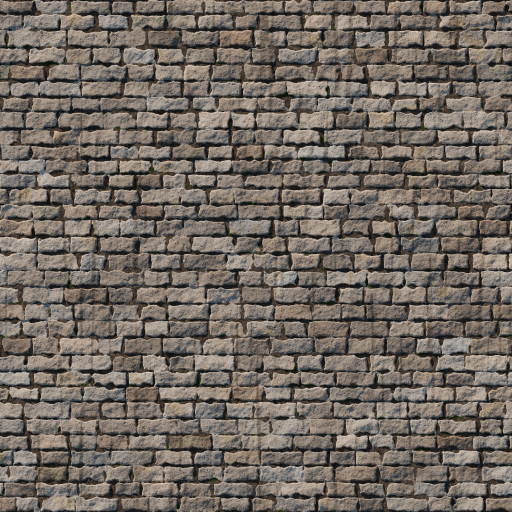
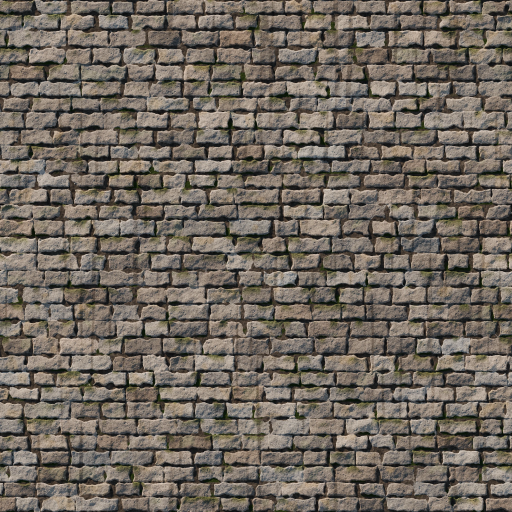
Версия 2026.10.15-54: мох на замковой кладке

diff --git a/index.html b/index.html
@@ -114,7 +114,7 @@
         </div>
       </div>
     </div>
-    <footer class="menu-footer"><span id="game-version">ВЕРСИЯ 2026.10.15-53</span><span>ПЛАНИРУЙ ХОД. МЕНЯЙ ЛАНДШАФТ.</span><span class="footer-status"><i></i> ГОТОВ К БОЮ</span></footer>
+    <footer class="menu-footer"><span id="game-version">ВЕРСИЯ 2026.10.15-54</span><span>ПЛАНИРУЙ ХОД. МЕНЯЙ ЛАНДШАФТ.</span><span class="footer-status"><i></i> ГОТОВ К БОЮ</span></footer>
   </section>
 
   <!-- Онлайн -->

diff --git a/dev/blender/make_masonry.py b/dev/blender/make_masonry.py
@@ -38,7 +38,7 @@ STYLES = {
     # замки на закате: тёплый песчаник-известняк, камни мельче, швы тоньше
     'castle': dict(name='stone_castle', seed=23, T=512, hr=(14, 18), wr=(24, 46), joint=2.0, bev=1.2, recess=1.4, tilt=0.6,
                    stone=[(178, 170, 158), (164, 156, 145), (190, 182, 168), (152, 144, 134), (172, 166, 156)],
-                   mortar=(104, 96, 86), lichen=0.12, moss=0.1, light=dict(col=(1.0, 0.78, 0.58), elev=18, energy=5.2)),   # r23: насыщенность −35 %
+                   mortar=(104, 96, 86), lichen=0.24, moss=0.3, light=dict(col=(1.0, 0.78, 0.58), elev=18, energy=5.2)),   # r23: насыщенность −35 %
     # каньон: тёплый песчаник, мелкие блоки, швы с песком, без лишайника и мха
     'sand': dict(name='stone_sand', seed=31, T=512, hr=(11, 14), wr=(19, 36), joint=2.0, bev=1.6, recess=1.4,
                  stone=[(222, 176, 120), (206, 160, 106), (232, 192, 138), (196, 150, 98), (214, 170, 118)],
@@ -145,6 +145,11 @@ def field(st):
         mc = np.array(st['mortar'], np.float32) * (0.88 + 0.12 * mortn[rows])[..., None]
         mk = np.clip((mossn[rows] - (1.6 - st['moss'] * 4)) * 1.5, 0, 1) * (Y > bh * 0.5) * (st['moss'] > 0)   # мох в нижних швах
         mc = mc * (1 - mk[..., None]) + np.array([60, 80, 38], np.float32) * mk[..., None]
+        # мох пятнами на верхних гранях камней (как на мосту эталона): там, где шум мха высок, ближе к верху ряда
+        if st['moss'] > 0:
+            mk2 = np.clip((mossn[rows] - (1.5 - st['moss'] * 3)) * 1.6, 0, 1) * np.clip(1 - Y / (bh * 0.55), 0, 1)
+            mcol = np.array([74, 94, 42], np.float32) * (0.85 + 0.15 * np.clip(lich2[rows], -1, 1))[..., None]
+            base = base * (1 - mk2[..., None] * 0.75) + mcol * mk2[..., None] * 0.75
         Cr = np.where(stone[..., None], base, mc); Hr = H[rows]
         if SN:
             # зерно гранита: мелкая «соль с перцем» ±9 %, светлые кристаллы полевого шпата и тёмные — слюды

diff --git a/CLAUDE.md b/CLAUDE.md
@@ -7,7 +7,7 @@ D:\Територивар1 и пользовательский Territory-War100 
 Не выполнять старые указания reset/clean/push/автоматического обновления (локальные коммиты можно).
 Запускать «Играть.cmd» или «Играть онлайн.cmd» из D:\Територивар.
 Полная переписка: dev/imported-chat/claude-code. Текущие цели: dev/NEXT_STEPS.md.
-Актуальная версия 2026.10.15-53, передача: dev/HANDOFF-2026-10-04.md и разделы «Версия 33–45» в dev/NEXT_STEPS.md.
+Актуальная версия 2026.10.15-54, передача: dev/HANDOFF-2026-10-04.md и разделы «Версия 33–45» в dev/NEXT_STEPS.md.
 Версия 45 (14.10): кадр наведения соперника — Camera.shotFrame идёт за дальней точкой (точка у края кадра с отступом); удары, попадания и снаряды центруются и у края карты (clampTo, reach). Ядерка — game.nuke (rd 430, pierce 0.5, урон 280). Звуки Sonniss GDC 2026 скачаны в D:\Sonniss-GDC2026\zips (лицензия без авторства; не выкладывать сами файлы). Версия 46: звук Sonniss (amb_*, boom5–9, nukeboom, ice0–1; dev/tools/sonniss_make.py; AMB_REC в audio.js), мотор ракеты ROCKET_MOTOR (entities.js, и в simulateShot), обломки PART_REST (particles.js), цветы flower1–4 и листья leaf1–4 (make_decor.py; цветы — в слое растений terrain_visual.js). Версия 48: оружие и взрывы из прошлых наборов Sonniss (выборочно по HTTP Range — scratchpad zip_fetch.py, копия D:\Sonniss-GDC2026\zip_fetch.py; записи в D:\Sonniss-GDC2026\guns; нарезка dev/tools/guns_make.py). Версия 49: makeup-усиление в audio.js init (2.5), лазер — ошибка по ветру (entities.js orbital), pickFrame — кадр по середине «самолёт…земля» (zFit), clampTo — свободный обзор до края (edge/scopeFocus/binoc), прицел соперника прижат к краю экрана со стрелкой. Лимиты: критик — лёгкий (8 уменьшенных снимков), тяжёлое — фоновыми процессами.
 Графика (просьба 09.10): всё векторное и лоскутное — в фотореалистичный Blender (кладка dev/blender/make_masonry.py, ели snow_spruce в make_textures.py, плющ make_ivy.py, декор make_decor.py); доски корабля dev/tools/make_hull_planks.py, чистка снега в текстуре dev/tools/despeckle_snow.py; критик r22 — dev/reviews/r22.md.
 Чёткость (просьба 10.10): текстуры чёткие при ЛЮБОМ увеличении — у каждого материала родная ×4 в assets/tex/native (Blender: dev/blender/hf_render.py блоками, make_masonry.py, make_metal.py; остальное — dev/native_batch.py через dev/tools/native_queue.py), проверять снимками на 1,3×/2×/max и мерой R = ВЧ(1:1)/ВЧ(½) родной (≥ 0.85; у рендеров Blender — узкий фильтр пикселя, без шумоподавления, см. dev/reviews/r24.md). Длинные рендеры возобновляемые (HF_RESUME=1, native_queue.py --clear-stale): у пользователя бывают отключения света.

diff --git a/dev/CORE_GOALS.md b/dev/CORE_GOALS.md
@@ -11,6 +11,7 @@ dev/MASTER_PLAN.md (все просьбы пользователя), а сохр
   Сделано 15.10 (v50): дуги в траве убраны, озеро лавы — текстура корки (dev/tools/make_lava.py), прожилки тоньше.
   v51 (критик r26, dev/reviews/r26.md: valley 5.5, canyon 6.5, arctic 5, volcano 6, alien 6, pirate 6.5, castles 6.5,
   city 7): арктика — новые пласты (make_masonry strata), кристаллы на сводах Alien, вулкан светлее.
+  v52–54: фонари под деревянными потолками (lantern1), порода Alien — насыпь глыб (make_rubble), мох на кладке замков.
   Осталось: звёздчатые светящиеся сердцевины в rock_volcano при 2,5×; лавовые шары и кости вулкана;
   мох и плющ на кладке, ряды разной высоты; фасад города ≥2048 px из Blender, эстакада; металл Alien без повтора и
   светильники, гриб-дерево Alien; тёмная порода rock_alien (пятна).

diff --git a/README.md b/README.md
@@ -12,6 +12,10 @@
 
 Лаунчеры сразу открывают приложение во весь экран; F11 — выход/возврат. В обычной браузерной ссылке полный экран включается с первого действия пользователя.
 
+## Обновление 54
+
+Замки: на кладке — мох пятнами на верхних гранях камней и зелень в швах (как на каменном мосту эталона).
+
 ## Обновление 53
 
 Alien: порода парящих островов — насыпь колотых глыб и щебня из Blender, светлее и контрастнее (раньше тёмная пятнистая сшивка). Фонари висят на кованой пластине с крюком и цепью.
